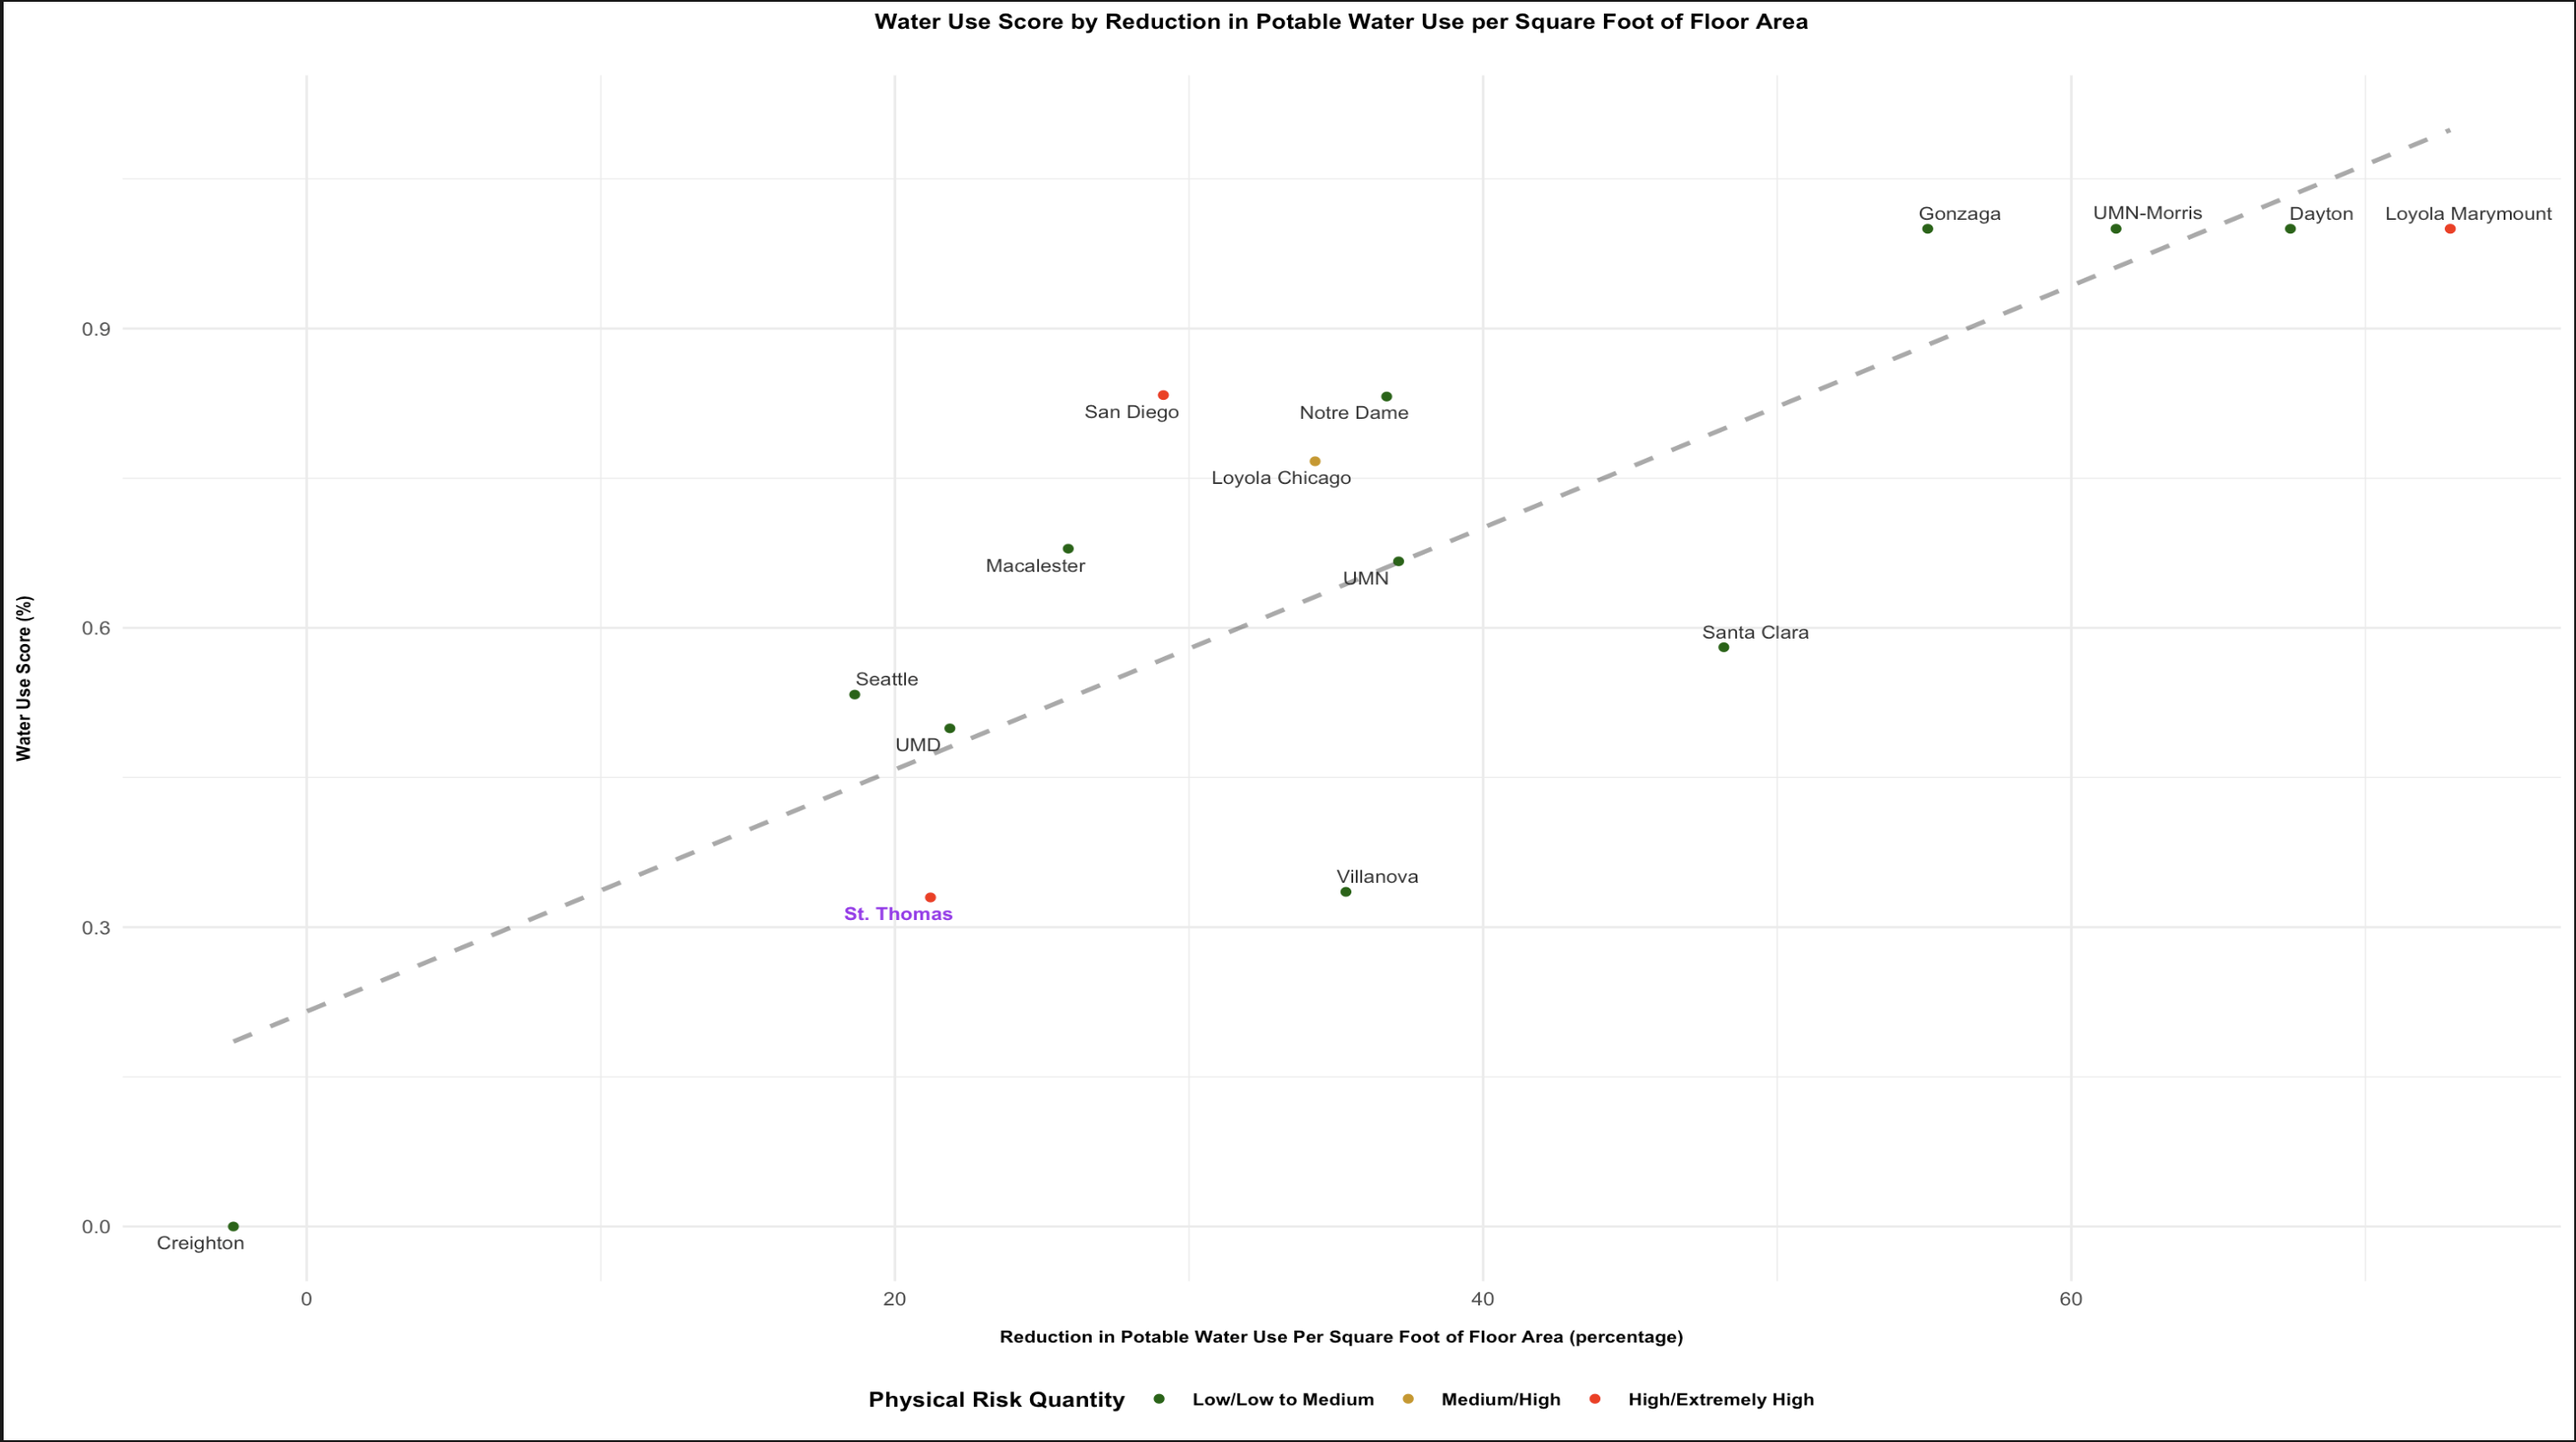
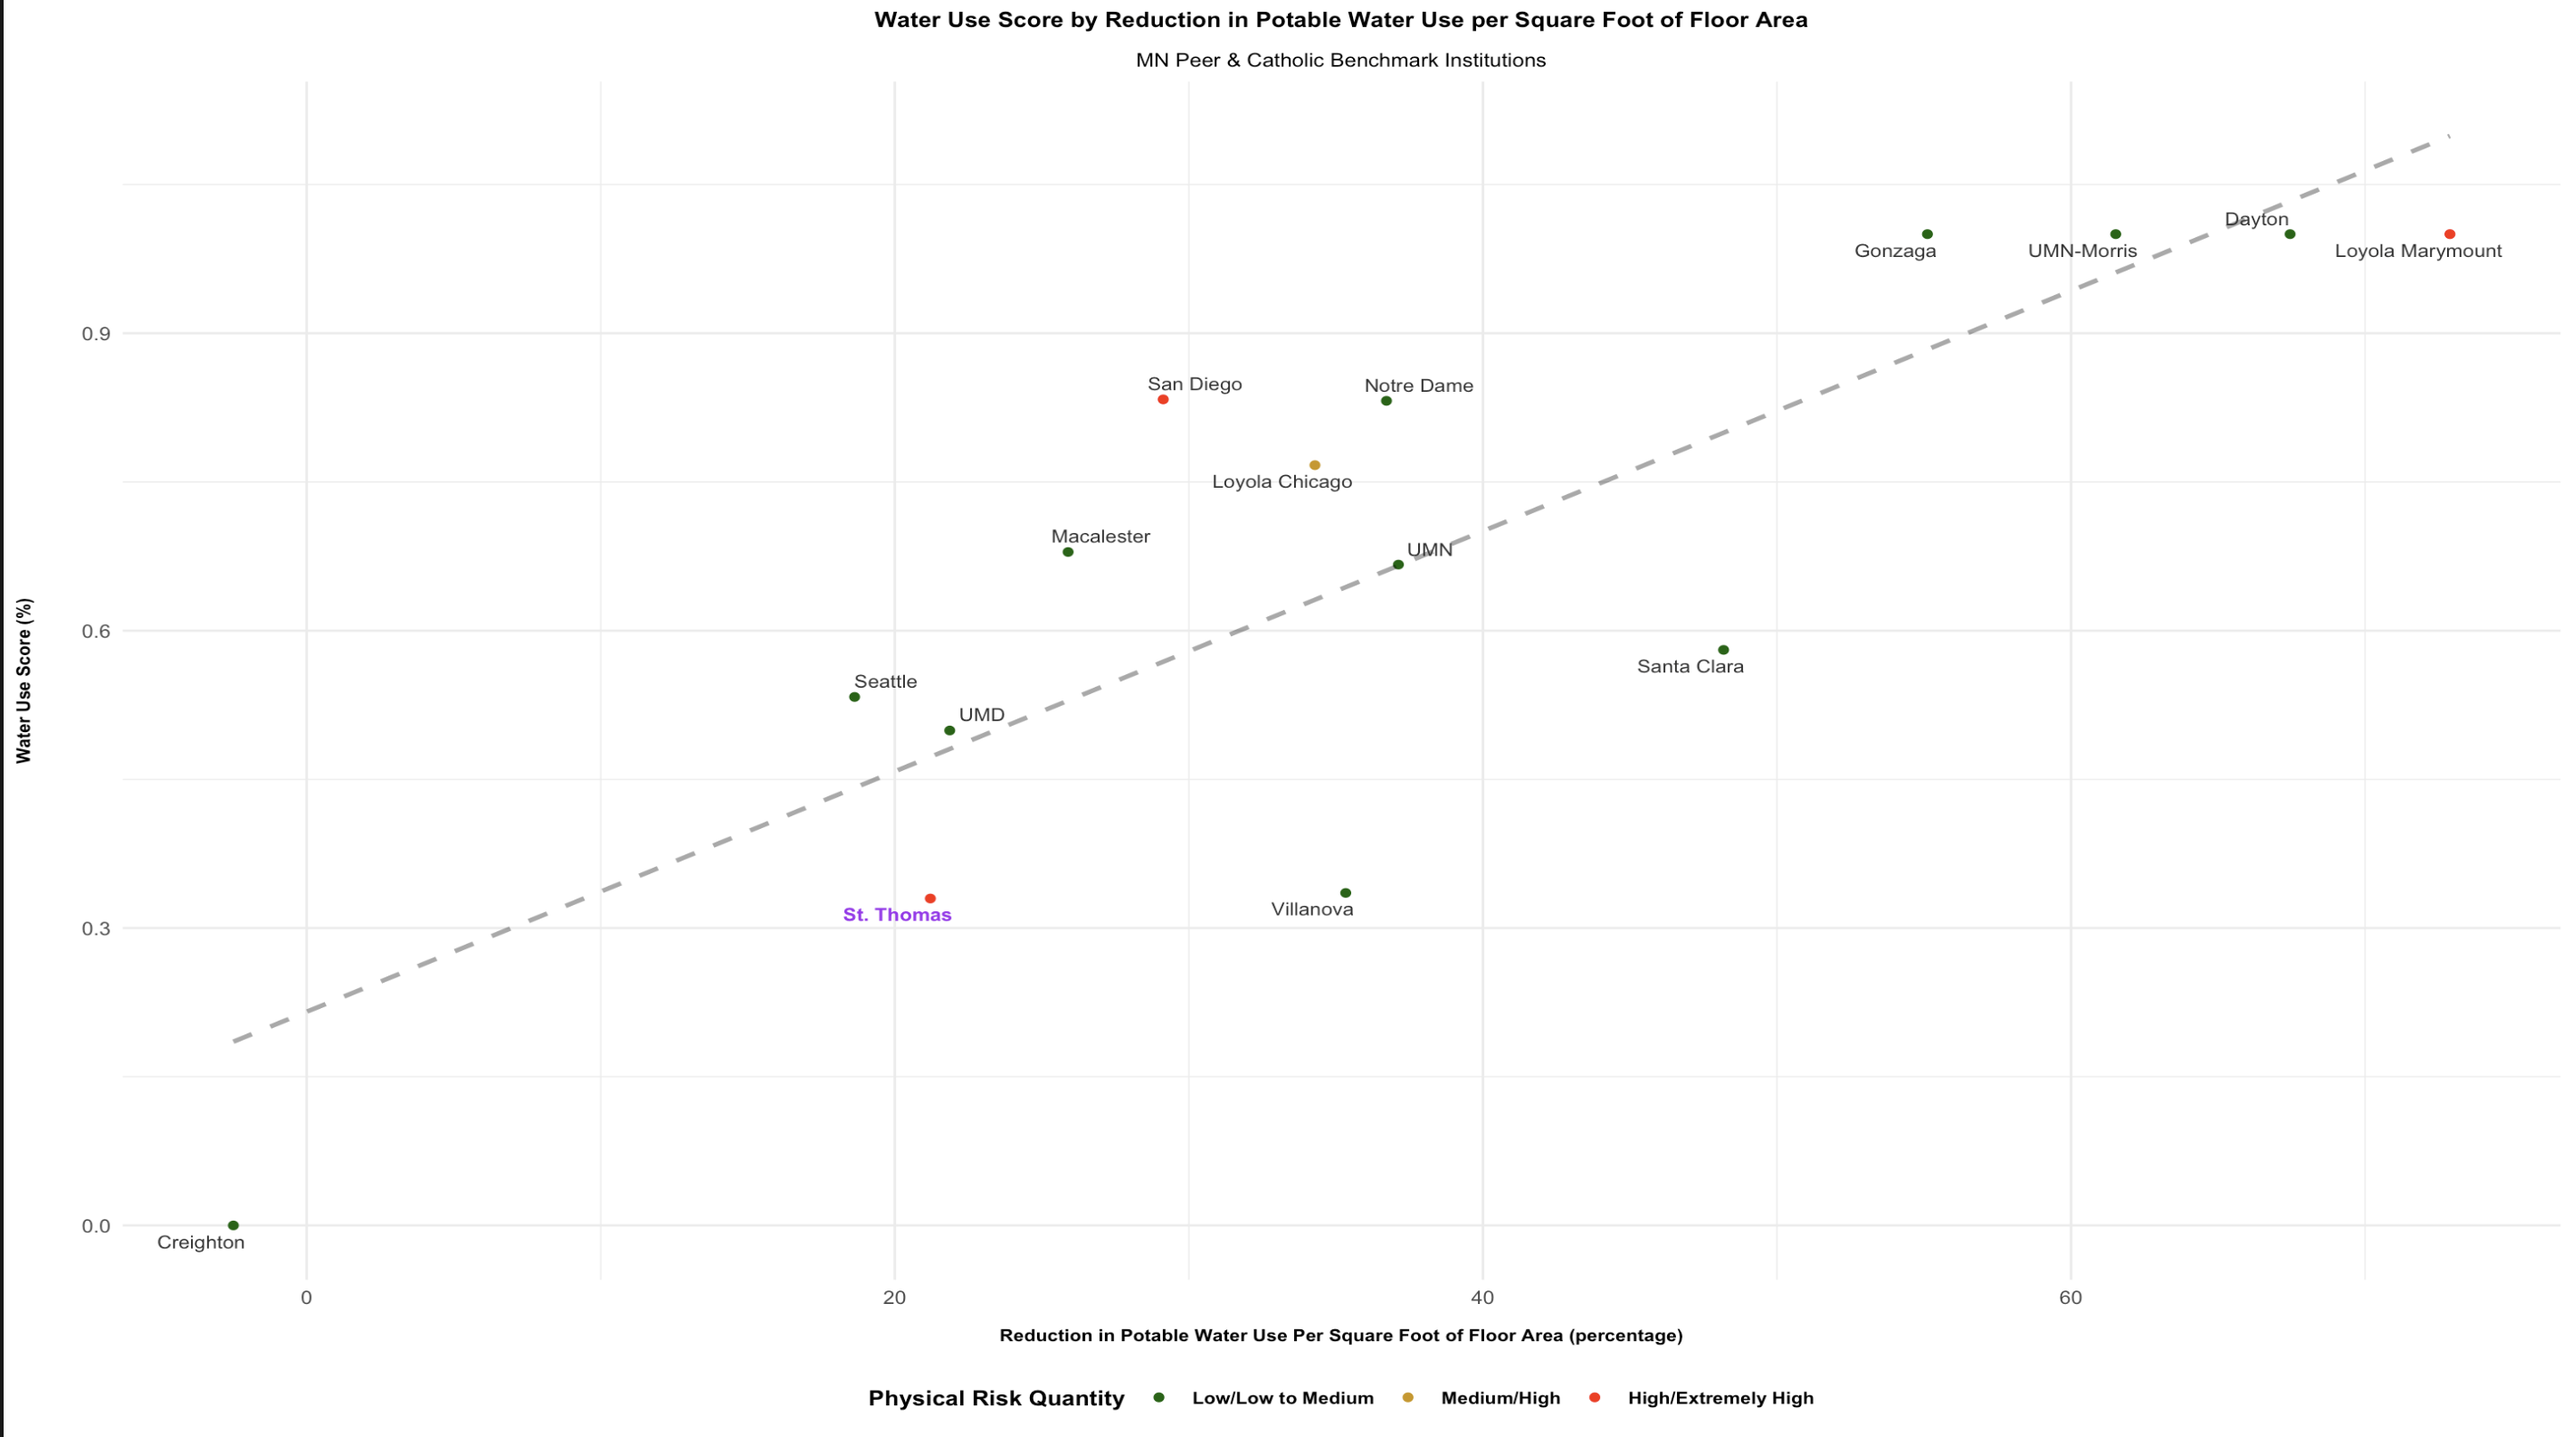
Check

diff --git a/app/advanced/page.tsx b/app/advanced/page.tsx
@@ -180,13 +180,15 @@ ggplot(data = clean2, aes(x = percentage_reduction_in_potable_water_use_per_unit
     title = "Water Use Score by Reduction in Potable Water Use per Person",
     x = "Reduction in Potable Water Use Per Person (percentage)",
     y = "Water Use Score (%)",
-    color = "Physical Risk Quantity"
+    color = "Physical Risk Quantity",
+    subtitle = "MN Peer & Catholic Benchmark Institutions"
   ) +
   scale_color_manual(values = c("darkgreen", "#CD9600", "red", "gray20"), 
   labels = c("Low/Low to Medium", "Medium/High", "High/Extremely High")) +
   theme_minimal() +
   theme(
-    plot.title = element_text(size = 10, face = "bold", hjust = 0.5, margin = margin(b = 20)),
+    plot.title = element_text(size = 10, face = "bold", hjust = 0.5, margin = margin(b = 10)),
+    plot.subtitle = element_text(size = 9, hjust = 0.5),
     axis.title.y = element_text(size = 8, face = "bold", margin = margin(r = 20)),  
     axis.title.x = element_text(size = 8, face = "bold", margin = margin(t = 10)),
     
@@ -221,13 +223,15 @@ ggplot(data = clean2, aes(x = percentage_reduction_in_potable_water_use_per_unit
       title = "Water Use Score by Reduction in Potable Water Use per Square Foot of Floor Area",
       x = "Reduction in Potable Water Use Per Square Foot of Floor Area (percentage)",
       y = "Water Use Score (%)",
-      color = "Physical Risk Quantity"
+      color = "Physical Risk Quantity",
+      subtitle = "MN Peer & Catholic Benchmark Institutions"
     ) +
     scale_color_manual(values = c("darkgreen", "#CD9600", "red", "gray20"), 
     labels = c("Low/Low to Medium", "Medium/High", "High/Extremely High")) +
     theme_minimal() + 
     theme(
-      plot.title = element_text(size = 10, face = "bold", hjust = 0.5, margin = margin(b = 20)),
+      plot.title = element_text(size = 10, face = "bold", hjust = 0.5, margin = margin(b = 10)),
+      plot.subtitle = element_text(size = 9, hjust = 0.5),
       axis.title.y = element_text(size = 8, face = "bold", margin = margin(r = 20)),  
       axis.title.x = element_text(size = 8, face = "bold", margin = margin(t = 10)),
       
@@ -237,7 +241,7 @@ ggplot(data = clean2, aes(x = percentage_reduction_in_potable_water_use_per_unit
       legend.title = element_text(size = 10, face = "bold"),
       
       legend.title.align = 0.5
-    ) `;
+    )  `;
   const code11 = `summary(lm_model2)`;
   const code12 = `clean3_nooutliers <- clean3 |>
   filter(institution != "UMN")
@@ -263,14 +267,16 @@ cat("Equation of the line: y =", round(intercept, 2), "+", round(slope, 2), "* x
       title = "Water Use Score by Reduction in Total Water Withdrawal per Acre of Vegetated Grounds",
       x = "Reduction in Total Water Withdrawal Per Acre of Vegetated Grounds (percentage)",
       y = "Water Use Score (%)",
-      color = "Physical Risk Quantity"
+      color = "Physical Risk Quantity",
+      subtitle = "MN Peer & Catholic Benchmark Institutions"
     ) +
     scale_color_manual(values = c("darkgreen", "#CD9600", "red", "gray20"), 
     labels = c("Low/Low to Medium", "Medium/High", "High/Extremely High")) +
     theme_minimal() +  
     theme(
-      plot.title = element_text(size = 10, face = "bold", hjust = 0.5, margin = margin(b = 20)),
-      axis.title.y = element_text(size = 8, face = "bold", margin = margin(r = 20)),  
+      plot.title = element_text(size = 10, face = "bold", hjust = 0.5, margin = margin(b = 10)),
+      axis.title.y = element_text(size = 8, face = "bold", margin = margin(r = 20)),
+      plot.subtitle = element_text(size = 9, hjust = 0.5),
       axis.title.x = element_text(size = 8, face = "bold", margin = margin(t = 10)),
       
       legend.position = "bottom",
@@ -293,12 +299,16 @@ ggplot(clean3, aes(
   x = percentage_reduction_in_potable_water_use_per_weighted_campus_user_from_baseline,
 )) +
   geom_bar(stat = "identity", fill = "blue3") +
-  labs(y = "Institution", x = "Percentage Reduction", title = "Reduction in Water Use Per Campus User From Baseline Year") +
+  labs(y = "Institution", 
+       x = "Percentage Reduction", 
+       title = "Reduction in Water Use Per Campus User From Baseline Year",
+       subtitle = "Catholic Benchmark Institutions") +
   scale_x_continuous(breaks = seq(-20, 100, by = 10)) +
   theme_minimal() +
   theme(
-        plot.title = element_text(size = 12, face = "bold", hjust = 0.5, margin = margin(b = 20)),
+        plot.title = element_text(size = 12, face = "bold", hjust = 0.5, margin = margin(b = 10)),
     plot.title.position = "plot",
+    plot.subtitle = element_text(size = 9, hjust = 0.5),
     axis.title.y = element_text(size = 10, face = "bold", margin = margin(r = 20)),  
     axis.title.x = element_text(size = 10, face = "bold", margin = margin(t = 10)),
     
@@ -315,12 +325,16 @@ ggplot(clean3, aes(
   x = percentage_reduction_in_total_water_withdrawal_per_unit_of_vegetated_grounds_from_baseline,
 )) +
   geom_bar(stat = "identity", fill = "blue3") +
-  labs(y = "Institution", x = "Percentage Reduction", title = "Reduction in Water Use Per Unit of Vegetated Grounds From Baseline Year") +
+  labs(y = "Institution", 
+       x = "Percentage Reduction", 
+       title = "Reduction in Water Use Per Unit of Vegetated Grounds From Baseline Year",
+       subtitle = "Catholic Benchmark Institutions") +
   scale_x_continuous(breaks = seq(-20, 100, by = 10)) +
   theme_minimal() +
   theme(
-        plot.title = element_text(size = 12, face = "bold", hjust = 0.5, margin = margin(b = 20)),
+        plot.title = element_text(size = 12, face = "bold", hjust = 0.5, margin = margin(b = 10)),
     plot.title.position = "plot",
+    plot.subtitle = element_text(size = 9, hjust = 0.5),
     axis.title.y = element_text(size = 10, face = "bold", margin = margin(r = 20)),  
     axis.title.x = element_text(size = 10, face = "bold", margin = margin(t = 10)),
     
@@ -338,12 +352,16 @@ ggplot(clean3, aes(
   x = percentage_reduction_in_potable_water_use_per_unit_of_floor_area_from_baseline,
 )) +
   geom_bar(stat = "identity", fill = "blue3") +
-  labs(y = "Institution", x = "Percentage Reduction", title = "Reduction in Water Use Per Unit of Floor Area From Baseline Year") +
+  labs(y = "Institution", 
+       x = "Percentage Reduction", 
+       title = "Reduction in Water Use Per Unit of Floor Area From Baseline Year",
+       subtitle = "Catholic Benchmark Institutions",) +
   scale_x_continuous(breaks = seq(-20, 100, by = 10)) +
   theme_minimal() +
   theme(
-        plot.title = element_text(size = 12, face = "bold", hjust = 0.5, margin = margin(b = 20)),
+        plot.title = element_text(size = 12, face = "bold", hjust = 0.5, margin = margin(b = 10)),
     plot.title.position = "plot",
+    plot.subtitle = element_text(size = 9, hjust = 0.5),
     axis.title.y = element_text(size = 10, face = "bold", margin = margin(r = 20)),  
     axis.title.x = element_text(size = 10, face = "bold", margin = margin(t = 10)),
     
